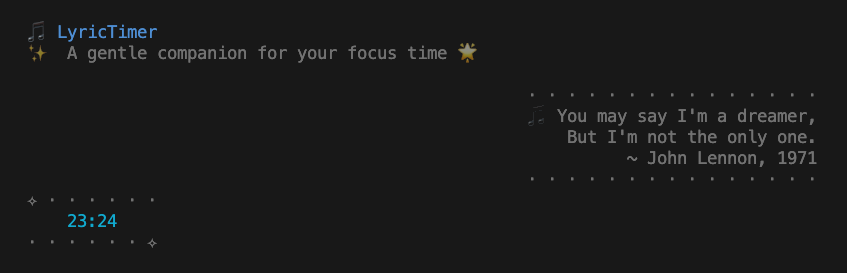
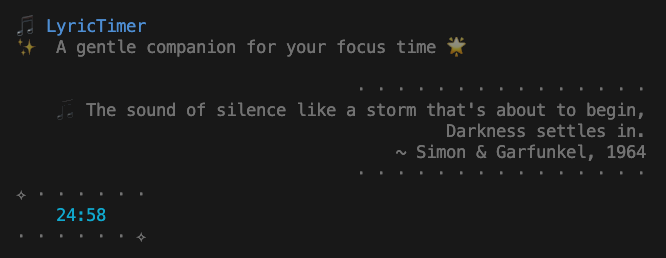
fix: update readme

diff --git a/src/index.ts b/src/index.ts
@@ -6,7 +6,7 @@ export const createTimer = async (options: {
 }): Promise<void> => {
   const config = {
     duration: options.duration || 25,
-    lyricInterval: options.lyricInterval || 30,
+    lyricInterval: options.lyricInterval || 15,
     isPaused: false,
   };
   

diff --git a/README.md b/README.md
@@ -1,12 +1,15 @@
 # LyricTimer CLI
-![lyric-timer-demo](.github/assets/lyric-timer-demo.png)
+![lyric-timer-demo](https://github.com/junjie-w/lyric-timer-cli/raw/main/.github/assets/lyric-timer-demo.png)
 
 ![GitHub Workflow Status](https://img.shields.io/github/actions/workflow/status/junjie-w/lyric-timer-cli/ci.yml)
+![Vitest](https://img.shields.io/badge/Vitest-enabled-brightgreen?logo=vitest)
 [![semantic-release](https://img.shields.io/badge/semantic--release-enabled-brightgreen?logo=semantic-release)](https://github.com/semantic-release/semantic-release)
 ![ESLint](https://img.shields.io/badge/ESLint-enabled-brightgreen)
 ![Husky](https://img.shields.io/badge/Husky-enabled-brightgreen)
+[![Chalk](https://img.shields.io/badge/Chalk-CLI_Styling-pink?logo=node.js)](https://github.com/chalk/chalk)
+[![Clack](https://img.shields.io/badge/@clack-CLI_Prompts-black)](https://github.com/natemoo-re/clack)
 
-A command-line focus timer, available as a [Docker image](https://hub.docker.com/r/junjiewu0/lyric-timer-cli) for containerized usage, an [NPM package](https://www.npmjs.com/package/@junjie-wu/lyric-timer-cli) for both CLI usage and library integration, and a standalone execuatble.
+A command-line focus timer, available as a [Docker image](https://hub.docker.com/r/junjiewu0/lyric-timer-cli) for containerized usage, an [NPM package](https://www.npmjs.com/package/@junjie-wu/lyric-timer-cli) for both CLI usage and library integration, and a standalone execuatble (available in the [releases](https://github.com/junjie-w/lyric-timer-cli/releases) page).
 
 ## ⭐ Quick Start
 
@@ -63,7 +66,7 @@ await createTimer({
 });
 ```
 
-### Standalone Executable
+### 🧪 Standalone Executable
 
 #### Running Locally with Node.js
 
@@ -97,7 +100,8 @@ npm run start:linux      # For Linux
 Download the pre-built binary from the [releases page](https://github.com/junjie-w/lyric-timer-cli/releases).
 
 ### 📋 Examples
-For complete working examples of all usage methods, check out the [examples](https://github.com/junjie-w/lyric-timer-cli/tree/main/examples) directory:
+For working examples, check out the [examples](https://github.com/junjie-w/lyric-timer-cli/tree/main/examples) directory:
+
 ```bash
 git clone https://github.com/junjie-w/lyric-timer-cli.git
 cd lyric-timer-cli/examples
@@ -110,18 +114,21 @@ npm run start:docker  # Docker usage
 npm run start:exe     # Executable usage
 ```
 
-## ⚡ Features
+## 🍄 Features
 
-- 🎵 Inspiring lyrics while you focus
 - ⏱ Configurable timer duration
 - 🔄 Adjustable lyric change intervals
-- ⌨ Interactive CLI interface
 - ⏸ Pause/Resume functionality
-- 🎨 Beautiful terminal output
+- 🎨 Interactive CLI interface (built with [@clack/prompts](https://www.npmjs.com/package/@clack/prompts) and [chalk](https://www.npmjs.com/package/chalk))
 
-## 🛠 Development
+### Configuration Options
 
-### Setup
+| Option | Type | Default |
+|----------|--------|-------------|
+| `duration` | number | 25 |
+| `lyricInterval` | number | 15 |
+
+## 🛠 Development 
 
 ```bash
 # Install dependencies
@@ -136,23 +143,9 @@ npm test
 # Build
 npm run build
 
-# Start
+# Run the built application
 npm start
 ```
-
-### Commit Convention
-
-This project follows [Conventional Commits](https://www.conventionalcommits.org/):
-
-```
-<type>[optional scope]: <description>
-
-[optional body]
-
-[optional footer(s)]
-```
-
-Types: `feat`, `fix`, `docs`, `style`, `refactor`, `test`, `chore`
 
 ## 🤝 Contributing
 
@@ -161,7 +154,7 @@ Contributions, issues, and feature requests are welcome. Feel free to check [iss
 ## 🚀 Distribution
 
 - NPM Registry: [@junjie-wu/lyric-timer-cli](https://www.npmjs.com/package/@junjie-wu/lyric-timer-cli)
-- Docker Hub: [junjiewu0/lyric-timer](https://hub.docker.com/r/junjiewu0/lyric-timer)
+- Docker Hub: [junjiewu0/lyric-timer](https://hub.docker.com/r/junjiewu0/lyric-timer-cli)
 - Standalone executables are available in the [releases](https://github.com/junjie-w/lyric-timer-cli/releases) page
 
 ## 📄 License

diff --git a/examples/README.md b/examples/README.md
@@ -1,82 +1,37 @@
-# LyricTimer Examples
+# LyricTimer CLI Examples
 
-Examples of using LyricTimer via [NPM package](https://www.npmjs.com/package/@junjie-wu/lyric-timer-cli), [Docker image](https://hub.docker.com/r/junjiewu0/lyric-timer), and standalone executable.
+Examples of using [LyricTimer CLI](https://github.com/junjie-w/lyric-timer-cli) via [Docker image](https://hub.docker.com/r/junjiewu0/lyric-timer-cli), [NPM package](https://www.npmjs.com/package/@junjie-wu/lyric-timer-cli), and standalone executable.
 
-## 📦 Library Usage
-Using the package as a library in your code:
+## 🐳 Docker Usage
+
 ```bash
-npm run start:lib
+npm run start:docker
 ```
 
-This demonstrates:
-- Creating a timer with custom duration
-- Setting custom lyric intervals
-- Basic error handling
-
 ## 🎯 CLI Usage
-Using the package as a command-line tool:
+
 ```bash
 npm run start:cli
 ```
 
-This demonstrates:
-- Interactive CLI interface
-- Default and custom settings
-- Timer controls
+## 📦 Library Usage
 
-## 🐳 Docker Usage
-Using the containerized version:
 ```bash
-# Start timer in container
-npm run start:docker
+npm run start:lib
 ```
 
 ## ⚡ Executable Usage
-Using the standalone executable:
-```bash
-npm run start:exe
-```
-
-## 🧪 Running Examples
 
 ```bash
-# Clone the repository
-git clone https://github.com/junjie-w/lyric-timer-cli.git
-cd lyric-timer-cli/examples
-
-# Install dependencies
-npm install
-
-# Try different examples
-npm run start:lib
-npm run start:cli
-npm run start:docker
 npm run start:exe
 ```
 
 ## ⚠ Troubleshooting
 
-### Docker Issues
+### Docker on ARM-based machines (Apple Silicon, etc.)
 
 If you're using an ARM-based machine (Apple Silicon Mac):
+
 ```bash
-docker run -it --rm --platform linux/amd64 junjiewu0/lyric-timer
+docker run -it --rm --platform linux/amd64 junjiewu0/lyric-timer-cli
 ```
-
-### Executable Issues
-
-If the executable doesn't run:
-```bash
-# Ensure it's built
-cd ..
-npm run build:executables
-
-# Then try again
-cd examples
-npm run start:exe
-```
-
-### General Tips
-- Each example has proper error handling and troubleshooting messages
-- Check the console output for specific error details
-- Make sure you're running the latest version of Node.js
